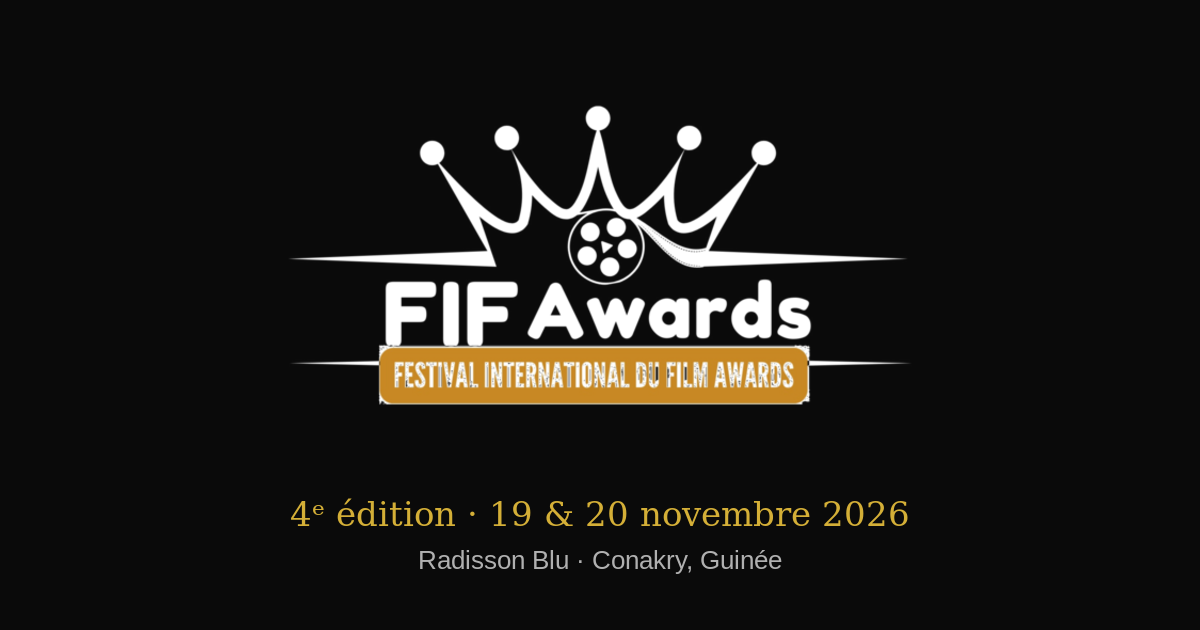
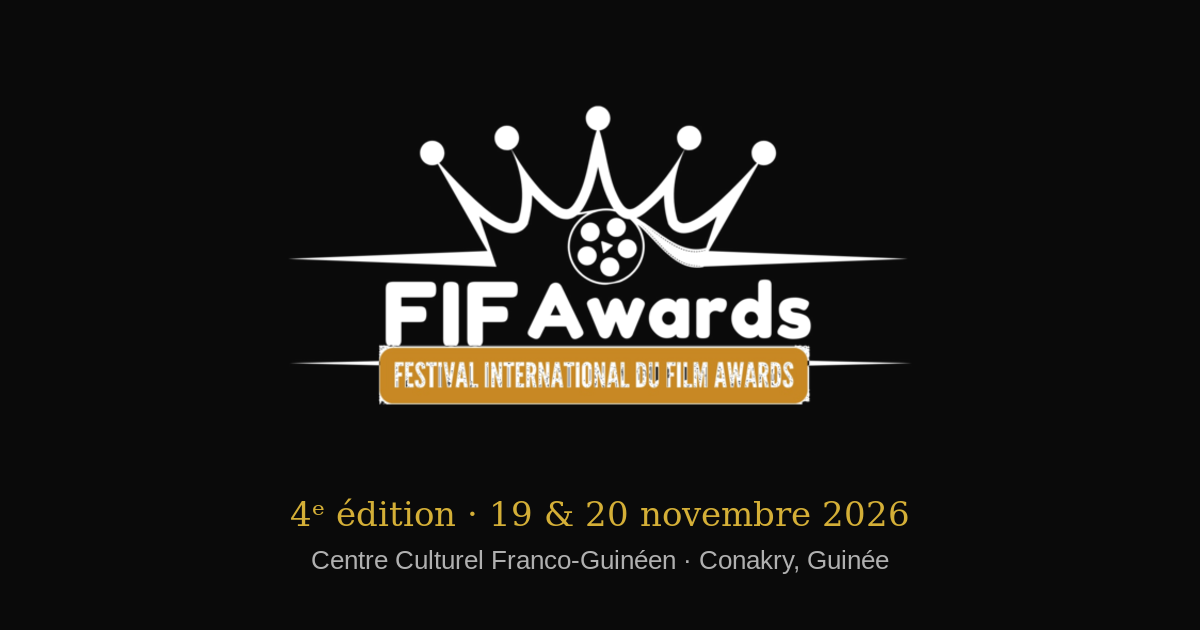
Changer le lieu pour le Centre Culturel Franco-Guinéen et le domaine pour fifawards.org
- Lieu centralisé dans src/lib/event.ts et repris partout : accueil,
  compte à rebours, programme, contact, cartes, pied de page, métadonnées
- Nouvelle image de partage avec le bon lieu
- Programme et billets : retrait des mentions propres au Radisson Blu
  (hall d'honneur, rooftop)
- Migration 20261017 : adresse par défaut et actualité de départ mises à jour
- Domaine par défaut : https://www.fifawards.org

Claude-Session: https://claude.ai/code/session_01PYhcbkM5benFcC6ZNQhDng

Changed region(s): [[0.2467, 0.8746, 0.74, 0.9048]]

diff --git a/src/app/(site)/programme/page.tsx b/src/app/(site)/programme/page.tsx
@@ -5,11 +5,12 @@ import { Calendar, MapPin, Clock } from 'lucide-react';
 import { Tabs, TabsContent, TabsList, TabsTrigger } from '@/components/ui/tabs';
 import { Badge } from '@/components/ui/badge';
 import { getProgramByDay } from '@/lib/data';
+import { VENUE, VENUE_MAP_EMBED_URL } from '@/lib/event';
 
 export const metadata: Metadata = {
   title: 'Programme officiel',
   description:
-    'Déroulé heure par heure des deux soirées du FIF AWARDS 2026 — 19 et 20 novembre, Radisson Blu Conakry.',
+    'Déroulé heure par heure des deux soirées du FIF AWARDS 2026 — 19 et 20 novembre, Centre Culturel Franco-Guinéen, Conakry.',
 };
 
 const typeLabels: Record<string, string> = {
@@ -37,7 +38,7 @@ export default function ProgrammePage() {
               <Calendar className="h-4 w-4 text-gold" /> 19 & 20 novembre 2026
             </span>
             <span className="inline-flex items-center gap-2">
-              <MapPin className="h-4 w-4 text-gold" /> Radisson Blu, Conakry
+              <MapPin className="h-4 w-4 text-gold" /> {VENUE.name}, {VENUE.city}
             </span>
           </div>
         </div>
@@ -90,8 +91,8 @@ export default function ProgrammePage() {
         <div className="grid grid-cols-1 md:grid-cols-2 gap-8 mt-16">
           <div className="card-gold overflow-hidden">
             <iframe
-              src="https://www.google.com/maps?q=Radisson+Blu+Hotel+Conakry&output=embed"
-              title="Radisson Blu Conakry"
+              src={VENUE_MAP_EMBED_URL}
+              title={`${VENUE.name}, ${VENUE.city}`}
               width="100%"
               height="320"
               style={{ border: 0 }}

diff --git a/src/app/layout.tsx b/src/app/layout.tsx
@@ -4,7 +4,7 @@ import { Toaster } from 'sonner';
 import './globals.css';
 
 
-const SITE_URL = process.env.NEXT_PUBLIC_SITE_URL ?? 'https://fifawards.gn';
+const SITE_URL = process.env.NEXT_PUBLIC_SITE_URL ?? 'https://www.fifawards.org';
 
 export const metadata: Metadata = {
   metadataBase: new URL(SITE_URL),
@@ -13,14 +13,14 @@ export const metadata: Metadata = {
     template: '%s | FIF AWARDS 2026',
   },
   description:
-    "Festival International du Film AWARDS, 4ᵉ édition. Les 19 et 20 novembre 2026 à Conakry, au Radisson Blu. Célébrer toute la chaîne de valeur du cinéma guinéen.",
+    "Festival International du Film AWARDS, 4ᵉ édition. Les 19 et 20 novembre 2026 à Conakry, au Centre Culturel Franco-Guinéen. Célébrer toute la chaîne de valeur du cinéma guinéen.",
   keywords: [
     'FIF AWARDS',
     'cinéma guinéen',
     'festival de film',
     'Conakry',
     'Guinée',
-    'Radisson Blu',
+    'Centre Culturel Franco-Guinéen',
     '2026',
   ],
   authors: [{ name: "Comité d'Organisation FIF AWARDS" }],

diff --git a/src/app/(site)/page.tsx b/src/app/(site)/page.tsx
@@ -5,6 +5,7 @@ import { DistinguesPreview } from '@/components/home/DistinguesPreview';
 import { getSettings } from '@/lib/data';
 import { ProgramPreview } from '@/components/home/ProgramPreview';
 import { PreviousEditionsGallery } from '@/components/home/PreviousEditionsGallery';
+import { VENUE } from '@/lib/event';
 
 const eventJsonLd = {
   '@context': 'https://schema.org',
@@ -18,7 +19,7 @@ const eventJsonLd = {
   eventAttendanceMode: 'https://schema.org/OfflineEventAttendanceMode',
   location: {
     '@type': 'Place',
-    name: 'Radisson Blu Hôtel Conakry',
+    name: VENUE.name,
     address: {
       '@type': 'PostalAddress',
       addressLocality: 'Conakry',
@@ -28,7 +29,7 @@ const eventJsonLd = {
   organizer: {
     '@type': 'Organization',
     name: "Comité d'Organisation FIF AWARDS",
-    url: 'https://fifawards.gn',
+    url: 'https://www.fifawards.org',
   },
 };
 

diff --git a/src/app/(site)/contact/page.tsx b/src/app/(site)/contact/page.tsx
@@ -3,6 +3,7 @@ import { MapPin, Mail, Phone } from 'lucide-react';
 import { ContactForm } from '@/components/ContactForm';
 import { SocialLinks } from '@/components/layout/SocialLinks';
 import { getSettings } from '@/lib/data';
+import { VENUE, VENUE_MAP_EMBED_URL } from '@/lib/event';
 
 export const metadata: Metadata = {
   title: 'Contact',
@@ -64,8 +65,8 @@ export default async function ContactPage() {
 
             <div className="card-gold overflow-hidden">
               <iframe
-                src="https://www.google.com/maps?q=Radisson+Blu+Hotel+Conakry&output=embed"
-                title="Radisson Blu Conakry"
+                src={VENUE_MAP_EMBED_URL}
+                title={`${VENUE.name}, ${VENUE.city}`}
                 width="100%"
                 height="280"
                 style={{ border: 0 }}

diff --git a/src/components/home/Countdown.tsx b/src/components/home/Countdown.tsx
@@ -3,6 +3,7 @@
 import { useEffect, useState } from 'react';
 import { motion, AnimatePresence } from 'framer-motion';
 import { getCountdown, type CountdownValue, FESTIVAL_DATE } from '@/lib/countdown';
+import { VENUE } from '@/lib/event';
 
 const labels = {
   days: 'Jours',
@@ -79,7 +80,7 @@ export function Countdown() {
         </div>
 
         <p className="text-xs uppercase tracking-[0.2em] text-text-secondary mt-10">
-          Radisson Blu Hôtel — Conakry, Guinée · {FESTIVAL_DATE.toLocaleDateString('fr-FR', { weekday: 'long', day: 'numeric', month: 'long', year: 'numeric' })}
+          {VENUE.name} — {VENUE.city}, {VENUE.country} · {FESTIVAL_DATE.toLocaleDateString('fr-FR', { weekday: 'long', day: 'numeric', month: 'long', year: 'numeric' })}
         </p>
       </div>
     </section>

diff --git a/src/components/layout/Footer.tsx b/src/components/layout/Footer.tsx
@@ -3,6 +3,7 @@ import Image from 'next/image';
 import { MapPin, Mail, Phone } from 'lucide-react';
 import type { SiteSettings } from '@/types/settings';
 import { SocialLinks } from './SocialLinks';
+import { VENUE } from '@/lib/event';
 
 export function Footer({ settings }: { settings: SiteSettings }) {
   return (
@@ -22,7 +23,7 @@ export function Footer({ settings }: { settings: SiteSettings }) {
             </Link>
             <p className="mt-4 text-sm text-text-secondary leading-relaxed">
               Festival International du Film AWARDS. 4ᵉ édition les 19 et 20 novembre 2026 à Conakry,
-              au Radisson Blu.
+              au {VENUE.name}.
             </p>
             <p className="mt-4 text-xs uppercase tracking-[0.2em] text-gold">
               {settings.slogan}

diff --git a/src/app/admin/(espace)/reglages/actions.ts b/src/app/admin/(espace)/reglages/actions.ts
@@ -4,6 +4,7 @@ import { requireAdmin } from '@/lib/admin/auth';
 import { createSessionClient } from '@/lib/supabase/server';
 import { checkbox, done, fail, optionalText, optionalUrl, refreshPublicSite, text } from '@/lib/admin/form';
 import type { ActionState } from '@/lib/admin/action-state';
+import { VENUE } from '@/lib/event';
 
 const DATE = /^\d{4}-\d{2}-\d{2}$/;
 
@@ -45,7 +46,7 @@ export async function updateSettings(_: ActionState, formData: FormData): Promis
       telephone: optionalText(formData, 'telephone'),
       email,
       whatsapp: optionalText(formData, 'whatsapp'),
-      adresse: text(formData, 'adresse') || 'Radisson Blu Hôtel, Conakry, Guinée',
+      adresse: text(formData, 'adresse') || VENUE.fullAddress,
       ...urls,
     })
     .eq('id', 1);

diff --git a/src/lib/mappers.ts b/src/lib/mappers.ts
@@ -3,6 +3,7 @@ import type { Distingue, PublicationStatus } from '@/types/distingue';
 import type { Sponsor, SponsorTier } from '@/types/sponsor';
 import type { Article } from '@/types/article';
 import type { SiteSettings } from '@/types/settings';
+import { VENUE } from '@/lib/event';
 
 // Lignes telles que renvoyées par Supabase (colonnes en français).
 
@@ -138,7 +139,7 @@ export const DEFAULT_SETTINGS: SiteSettings = {
   phone: null,
   email: null,
   whatsapp: null,
-  address: 'Radisson Blu Hôtel, Conakry, Guinée',
+  address: VENUE.fullAddress,
   facebookUrl: null,
   instagramUrl: null,
   youtubeUrl: null,

diff --git a/src/components/home/ProgramPreview.tsx b/src/components/home/ProgramPreview.tsx
@@ -1,6 +1,7 @@
 import Link from 'next/link';
 import { Calendar, MapPin, ArrowRight, Clock } from 'lucide-react';
 import { getProgramByDay } from '@/lib/data';
+import { VENUE } from '@/lib/event';
 
 export function ProgramPreview() {
   const day1 = getProgramByDay(1).slice(0, 4);
@@ -19,7 +20,7 @@ export function ProgramPreview() {
             </span>
             <span className="inline-flex items-center gap-2">
               <MapPin className="h-4 w-4 text-gold" />
-              Radisson Blu, Conakry
+              {VENUE.name}, {VENUE.city}
             </span>
           </p>
         </div>

diff --git a/src/lib/event.ts b/src/lib/event.ts
@@ -1,0 +1,11 @@
+/** Lieu de la 4ᵉ édition : à changer ici, puis dans /admin/reglages (adresse affichée). */
+export const VENUE = {
+  name: 'Centre Culturel Franco-Guinéen',
+  shortName: 'CCFG',
+  city: 'Conakry',
+  country: 'Guinée',
+  fullAddress: 'Centre Culturel Franco-Guinéen, Conakry, Guinée',
+  mapQuery: 'Centre Culturel Franco-Guinéen Conakry',
+} as const;
+
+export const VENUE_MAP_EMBED_URL = `https://www.google.com/maps?q=${encodeURIComponent(VENUE.mapQuery)}&output=embed`;

diff --git a/src/lib/email.ts b/src/lib/email.ts
@@ -55,7 +55,7 @@ function confirmationsEnabled(): boolean {
   return process.env.EMAIL_CONFIRMATIONS_ACTIVES === 'true';
 }
 
-const SITE_URL = process.env.NEXT_PUBLIC_SITE_URL ?? 'https://fifawards.gn';
+const SITE_URL = process.env.NEXT_PUBLIC_SITE_URL ?? 'https://www.fifawards.org';
 
 /** Notification à l'équipe (nouvelle candidature, message, réservation). */
 export async function notifyTeam(subject: string, lines: [string, string | null | undefined][], replyTo?: string) {

diff --git a/src/app/sitemap.ts b/src/app/sitemap.ts
@@ -1,7 +1,7 @@
 import type { MetadataRoute } from 'next';
 import { getArticles, getDistingues, getSettings } from '@/lib/data';
 
-const SITE_URL = process.env.NEXT_PUBLIC_SITE_URL ?? 'https://fifawards.gn';
+const SITE_URL = process.env.NEXT_PUBLIC_SITE_URL ?? 'https://www.fifawards.org';
 
 export default async function sitemap(): Promise<MetadataRoute.Sitemap> {
   const now = new Date();
